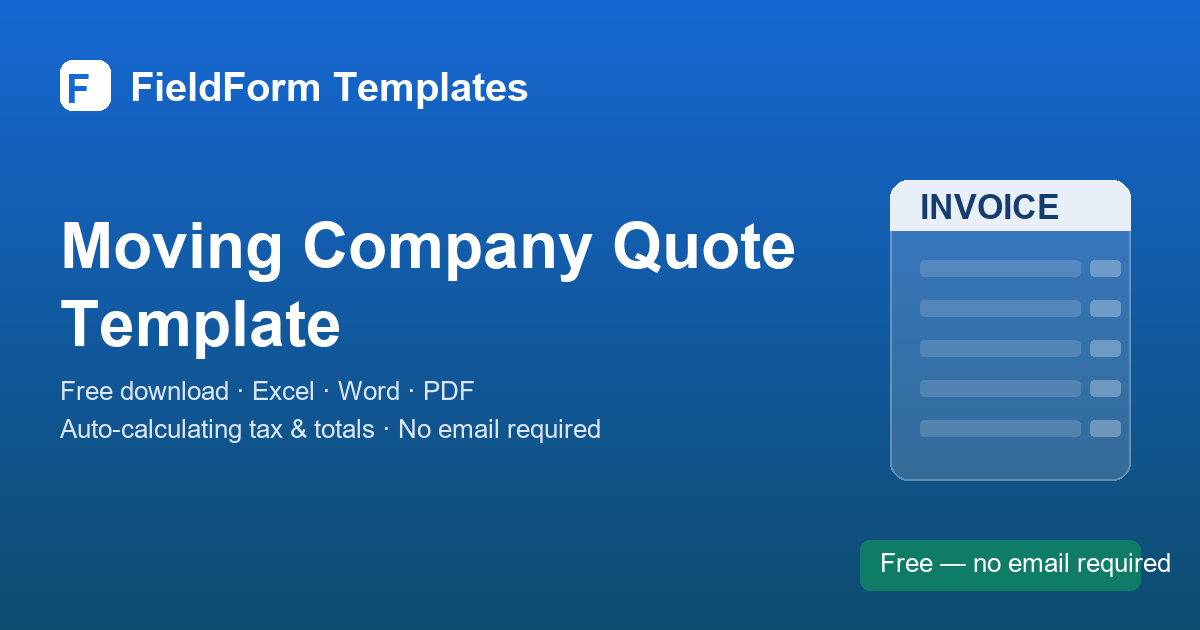
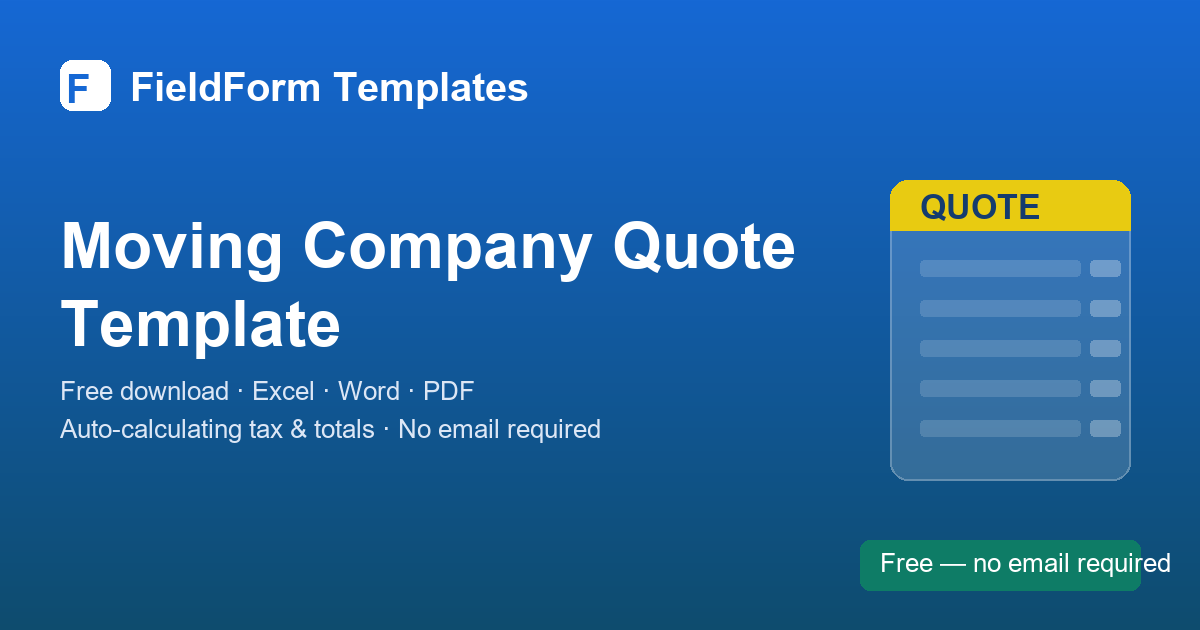
Fix deposit % and quote labels in previews/OG images
- InvoicePreview.astro + gen_preview_images.py: deposit now reads
  depositPct from trade JSON (was hardcoded 25%; welding = 50%)
- gen_preview_images.py: quote docType shows QUOTE-0001 label
- gen_og_images_all.py: quote docType labeled QUOTE (was INVOICE),
  gold accent bar like estimates

Changed region(s): [[0.74, 0.2714, 0.9558, 0.3921]]

diff --git a/scripts/gen_preview_images.py b/scripts/gen_preview_images.py
@@ -23,7 +23,7 @@ def rt(d,x,y,t,f,c): d.text((x-d.textlength(t,font=f),y),t,fill=c,font=f)
 
 def gen_one(tr):
     slug=tr["slug"]; title=tr["title"]; dt=tr.get("docType","invoice")
-    isest=dt in ("estimate","quote"); items=tr.get("lineItems",[])[:6]
+    isest=dt in ("estimate","quote"); dep=tr.get("depositPct",25); items=tr.get("lineItems",[])[:6]
     sub=0; rows=[]
     for it in items:
         q=it.get("defaultQty",0) or 0; r=it.get("sampleRate",0) or 0; a=q*r; sub+=a
@@ -37,7 +37,7 @@ def gen_one(tr):
     bc=GOLD if isest else BLUE
     d.rounded_rectangle((px,py,px+pw,py+10),radius=12,fill=bc); d.rectangle((px,py+5,px+pw,py+10),fill=bc)
     d.text((cx,y),title.upper(),fill=INK,font=ft); y+=52
-    dl="ESTIMATE #  EST-0001" if isest else "INVOICE #  INV-0001"
+    dl="QUOTE #  QUOTE-0001" if dt=="quote" else ("ESTIMATE #  EST-0001" if isest else "INVOICE #  INV-0001")
     d.text((cx,y),dl,fill=MUTED,font=fl); rt(d,cx+cw,y,"Date  2025-01-15",fl,MUTED); y+=30
     cwi=(cw-30)//2
     d.text((cx,y),"FROM",fill=MUTED,font=fl); d.text((cx,y+22),"Your Business Name",fill=INK,font=fb)
@@ -56,9 +56,9 @@ def gen_one(tr):
     y+=16; tw=280; tx=xa-tw; d.line((tx,y,xa,y),fill=INK,width=2); y+=12
     d.text((tx,y),"SUBTOTAL",fill=INK,font=ftd); rt(d,xa,y,M(sub),ftd,INK); y+=28
     if isest:
-        d.text((tx,y),"DEPOSIT (25%)",fill=MUTED,font=ftd); rt(d,xa,y,M(sub*0.25),ftd,INK); y+=28
+        d.text((tx,y),f"DEPOSIT ({dep}%)",fill=MUTED,font=ftd); rt(d,xa,y,M(sub*dep/100),ftd,INK); y+=28
         d.line((tx,y,xa,y),fill=INK,width=2); y+=8
-        d.text((tx,y),"BALANCE DUE",fill=INK,font=F(16,True)); rt(d,xa,y,M(sub*0.75),ftd,INK)
+        d.text((tx,y),"BALANCE DUE",fill=INK,font=F(16,True)); rt(d,xa,y,M(sub*(100-dep)/100),ftd,INK)
     else:
         d.text((tx,y),"TAX (enter rate)",fill=MUTED,font=ftd); rt(d,xa,y,"—",ftd,MUTED); y+=28
         d.line((tx,y,xa,y),fill=INK,width=2); y+=8

diff --git a/scripts/gen_og_images_all.py b/scripts/gen_og_images_all.py
@@ -48,11 +48,11 @@ def draw_doc_icon(img, draw, doc_type):
     od = ImageDraw.Draw(overlay)
     od.rounded_rectangle((10, 10, 10 + w, 10 + h), radius=18,
                          fill=(255, 255, 255, 38), outline=(255, 255, 255, 90), width=2)
-    bar_color = (255, 215, 0, 230) if doc_type == "estimate" else (255, 255, 255, 230)
+    bar_color = (255, 215, 0, 230) if doc_type in ("estimate", "quote") else (255, 255, 255, 230)
     od.rounded_rectangle((10, 10, 10 + w, 60), radius=18, fill=bar_color)
     od.rectangle((10, 40, 10 + w, 60), fill=bar_color)
     f_lbl = font(34, bold=True)
-    lbl = "ESTIMATE" if doc_type == "estimate" else "INVOICE"
+    lbl = {"estimate": "ESTIMATE", "quote": "QUOTE"}.get(doc_type, "INVOICE")
     od.text((40, 18), lbl, fill=(20, 60, 110, 255), font=f_lbl)
     for yy in [90, 130, 170, 210, 250]:
         od.rounded_rectangle((40, yy, 40 + 160, yy + 16), radius=4, fill=(255, 255, 255, 70))
